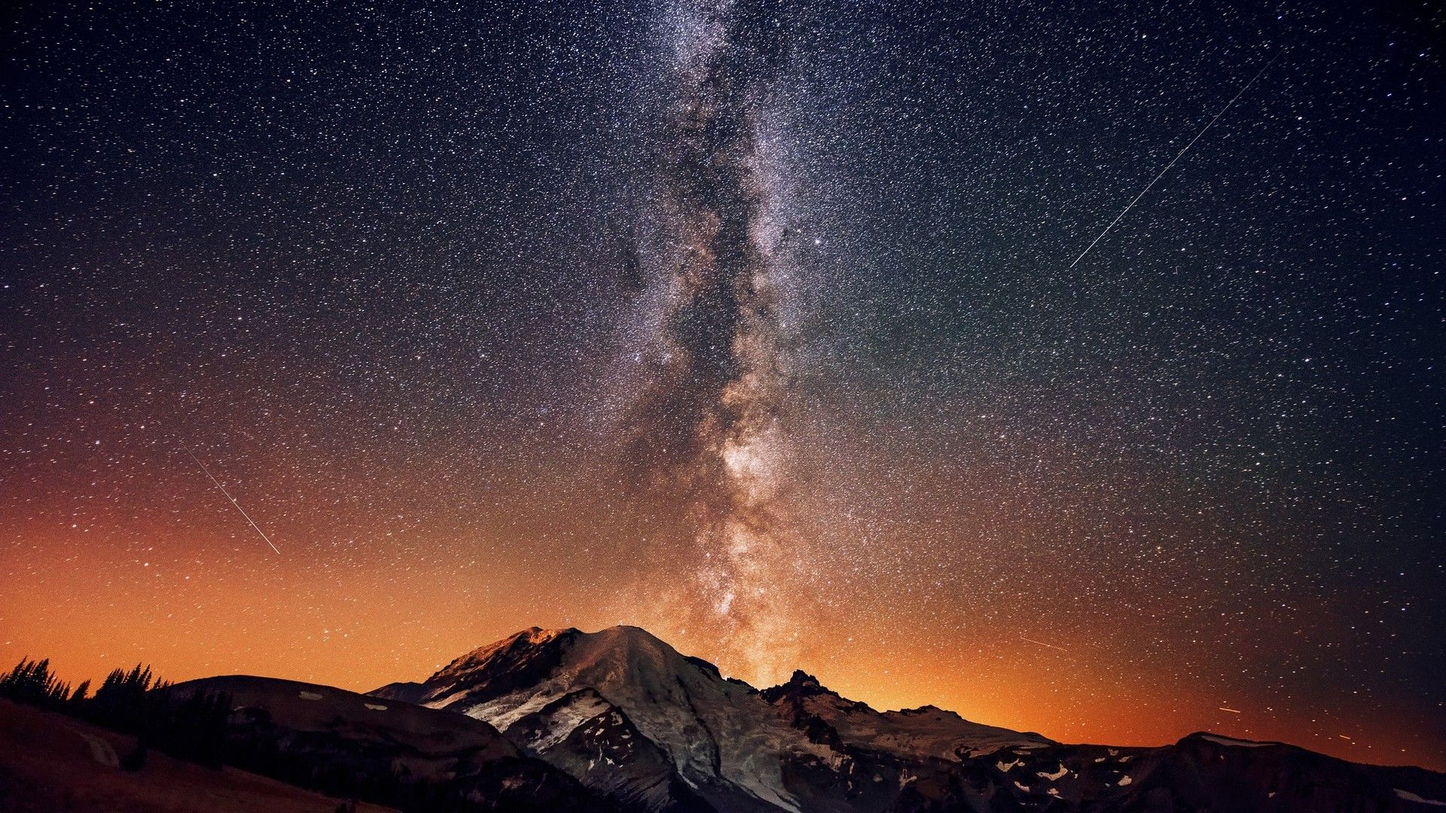
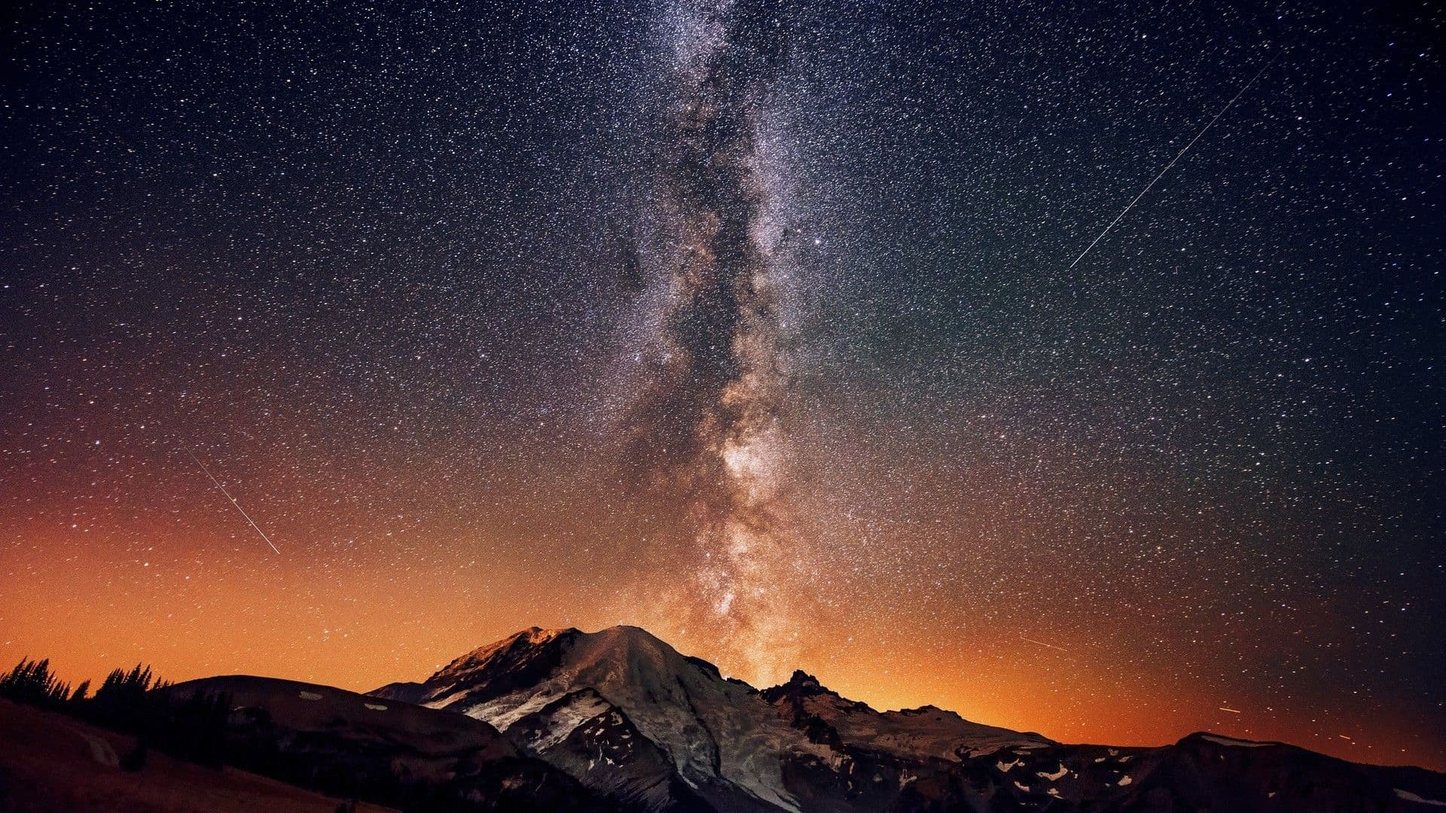
Ridotto dimensione immagini

diff --git a/css/stylesheet.css b/css/stylesheet.css
@@ -174,7 +174,7 @@ strong {
 }
 
 .bg-head_services {
-    background-image: url('../img/services-header.png');
+    background-image: url('../img/services-header.jpg');
 }
 
 .bg-head_reach-us {
